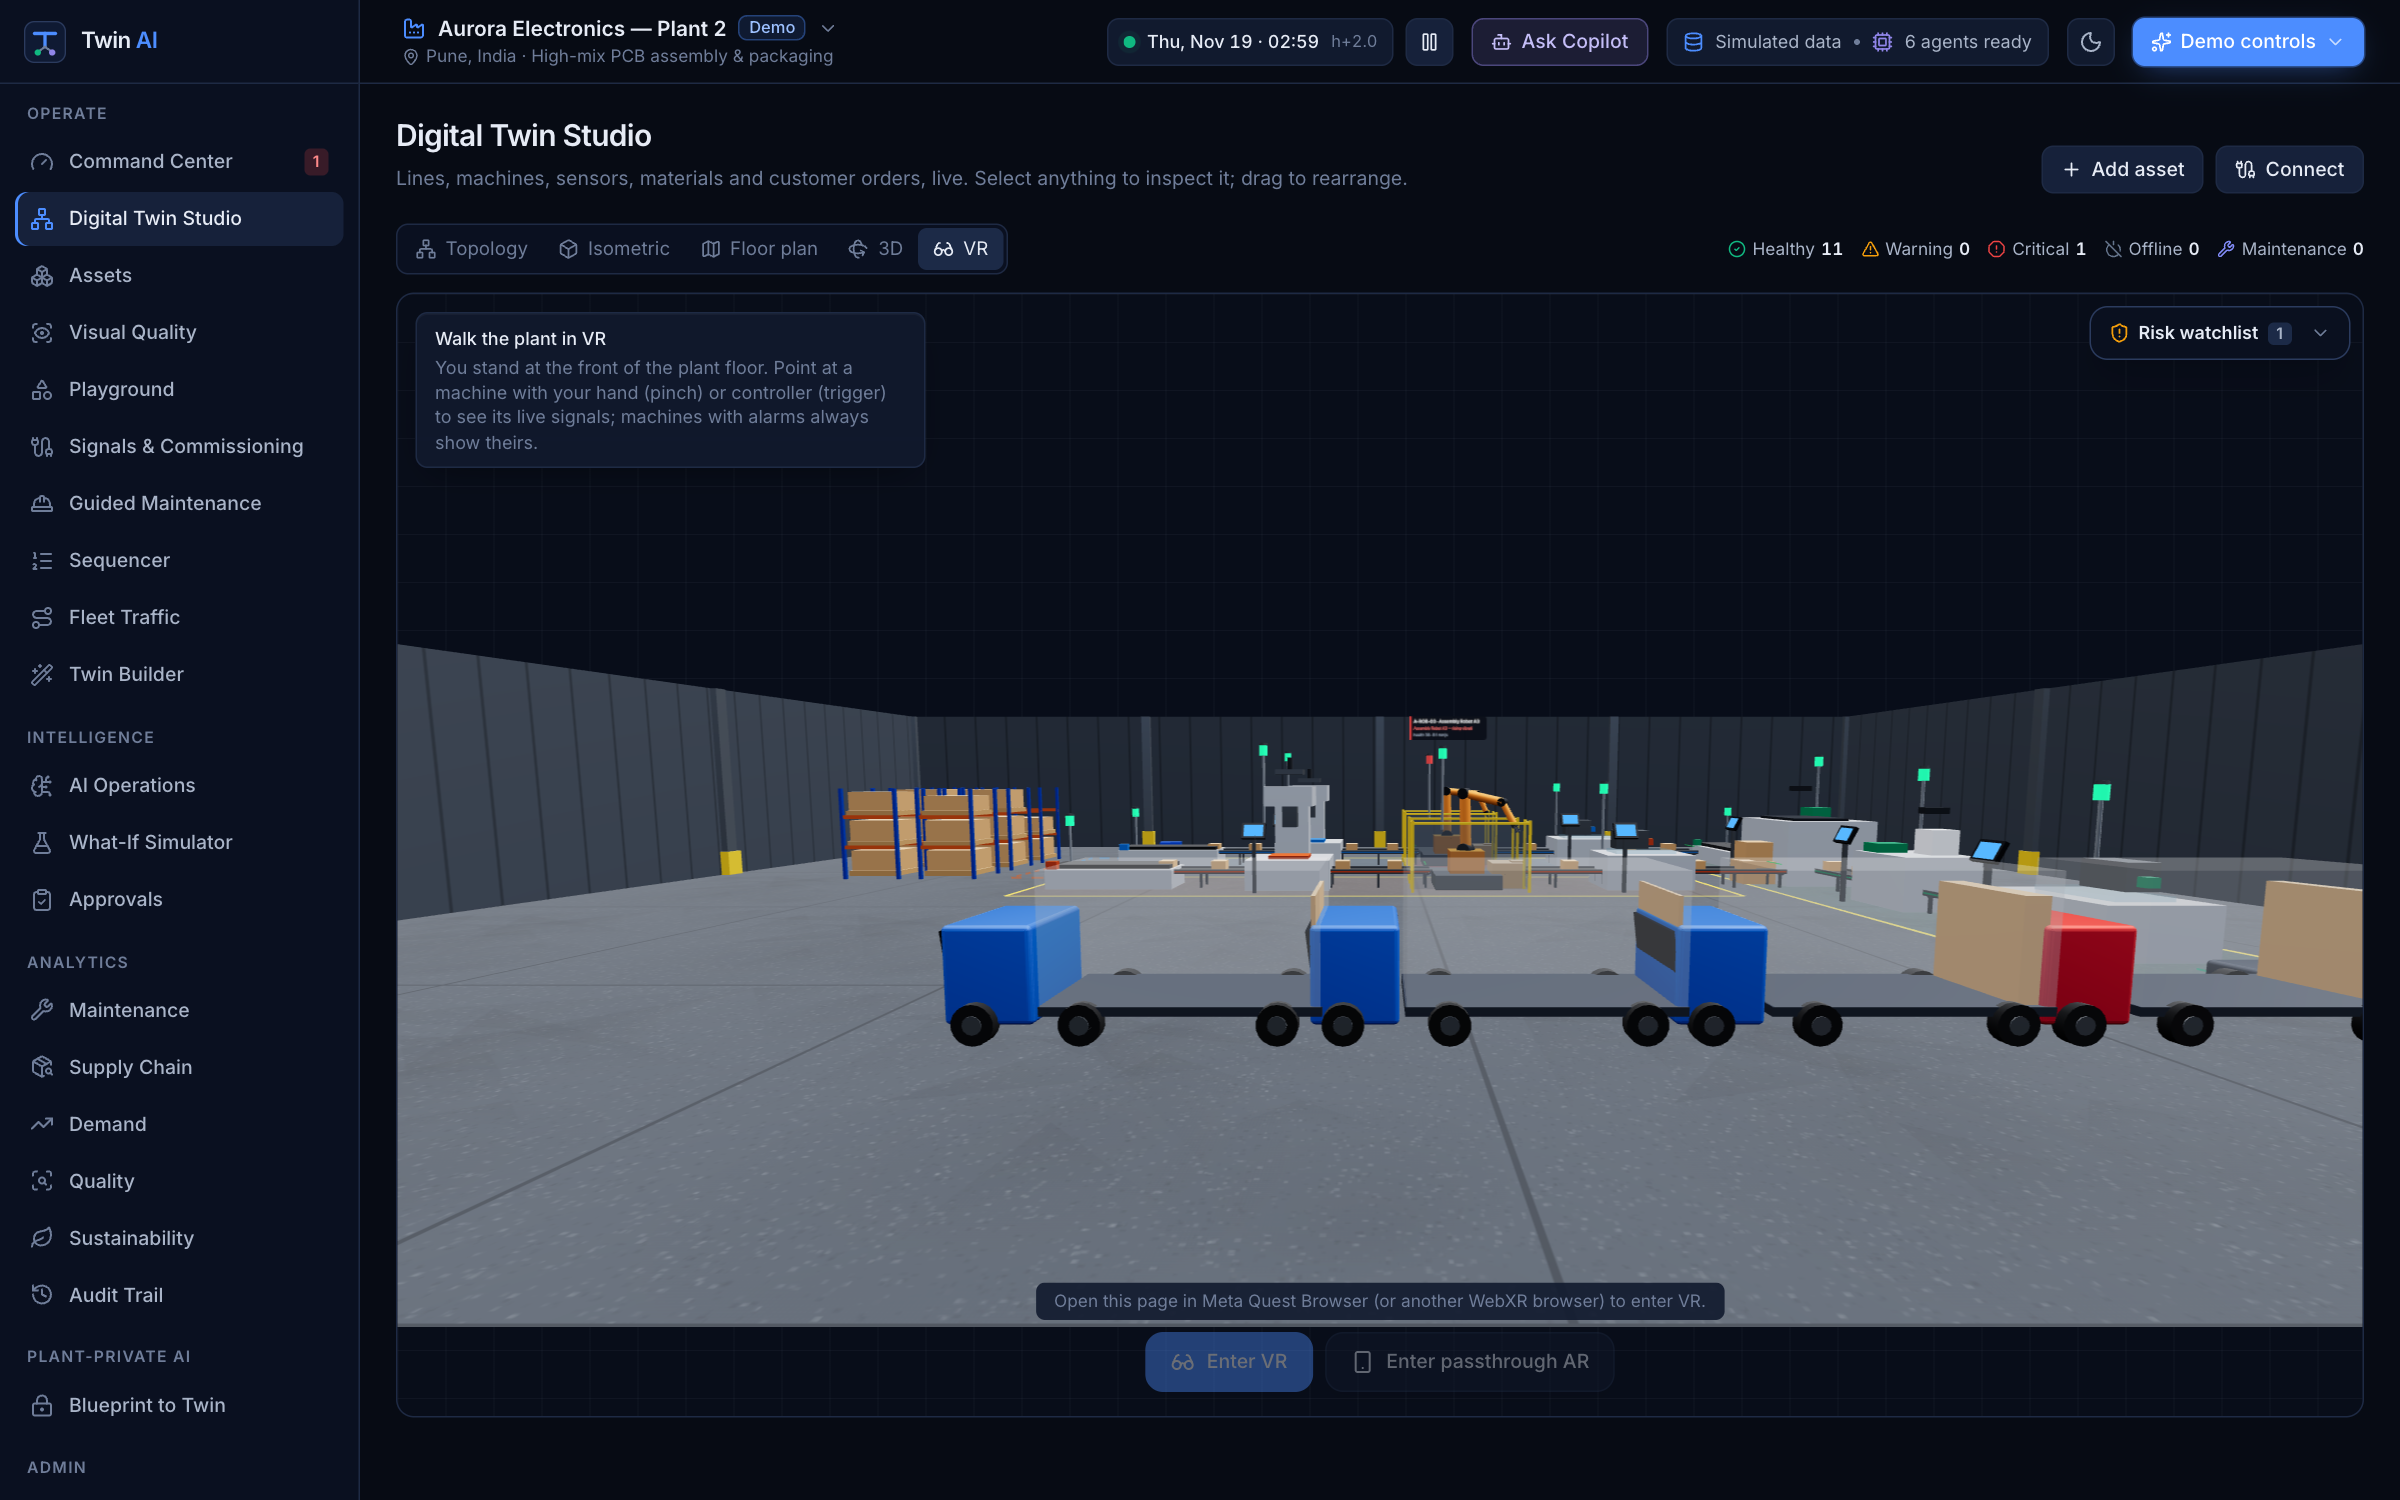
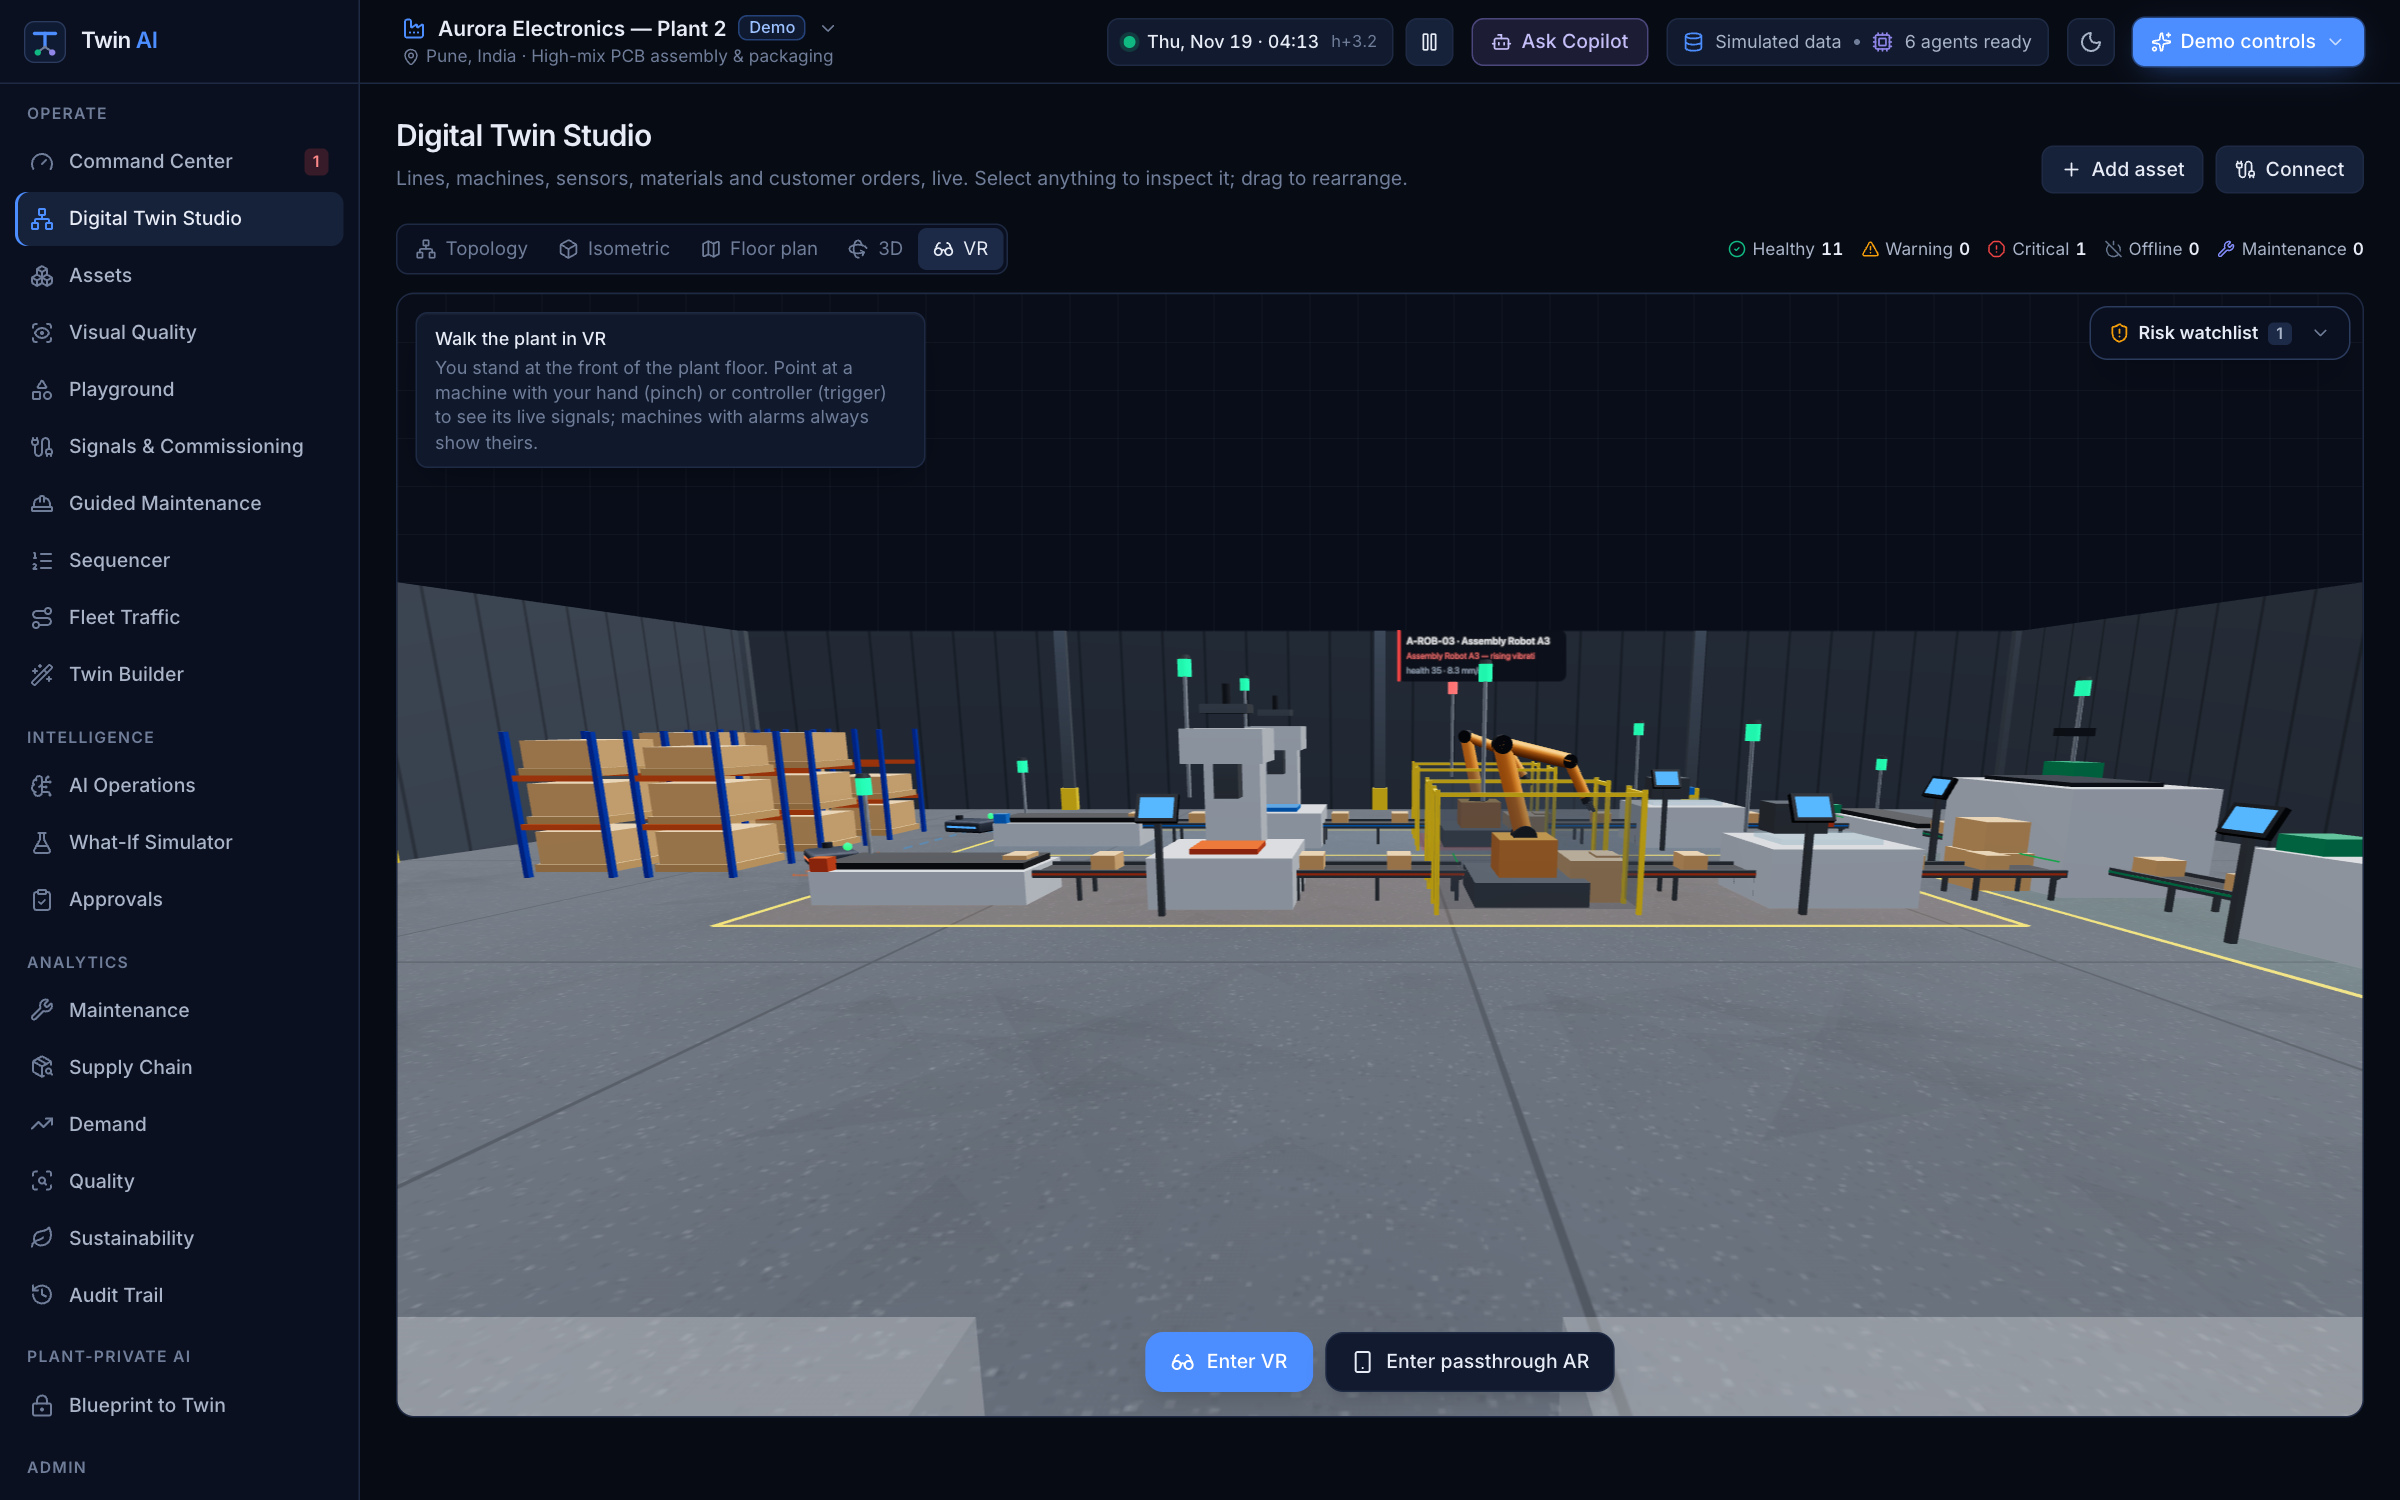
VR: add a VR tab to Digital Twin Studio with in-headset alarm and signal boards, ray/pinch machine selection, and Quest 3 emulation on localhost; add submission screenshots

Changed region(s): [[0.1562, 0.368, 1.0, 0.7053], [0.1562, 0.736, 1.0, 0.9507]]

diff --git a/src/components/three/twin-vr.tsx b/src/components/three/twin-vr.tsx
@@ -18,6 +18,11 @@ import { Scene } from "./twin-3d";
 
 const EYE = 1.6; // standing eye height, layout units ≈ m in the 3D scene
 
+// The development headset emulator bundles an older three.js renderer that calls Material.onBuild,
+// which current three.js no longer defines. A no-op keeps emulation working; real headsets never call it.
+const proto = THREE.Material.prototype as unknown as { onBuild?: () => void };
+if (typeof proto.onBuild !== "function") proto.onBuild = () => undefined;
+
 /** A text board in the scene (drawn to a canvas texture), so it is visible inside the headset. */
 function Board({ lines, accent, position, width = 1.5 }: { lines: { text: string; tone?: "title" | "warn" | "bad" | "ok" | "muted" }[]; accent: string; position: [number, number, number]; width?: number }) {
   const tex = useMemo(() => {
@@ -75,7 +80,17 @@ function StandingView({ eye, target }: { eye: THREE.Vector3; target: THREE.Vecto
  */
 export function TwinVR({ state }: { state: FactoryState }) {
   const pal = usePalette();
-  const store = useMemo(() => createXRStore({ emulate: "metaQuest3", offerSession: false }), []);
+  // On localhost without WebXR, emulate a Meta Quest 3 (stereo, no synthetic room) for development.
+  const store = useMemo(() => createXRStore({
+        emulate: {
+          type: "metaQuest3",
+          syntheticEnvironment: false,
+          stereoEnabled: true,
+          headset: { position: [0, 1.7, 0], rotation: [0.28, 0, 0] },
+          controller: { left: { position: [-0.32, -0.42, -0.45] }, right: { position: [0.32, -0.42, -0.45] } },
+        },
+        offerSession: false,
+      }), []);
   const [support, setSupport] = useState<{ vr: boolean; ar: boolean } | null>(null);
   const [selected, setSelected] = useState<string | null>(null);
   const plantRef = useRef<THREE.Group | null>(null);
@@ -107,7 +122,8 @@ export function TwinVR({ state }: { state: FactoryState }) {
   const b = layout.bounds;
   const center = useMemo(() => new THREE.Vector3(...P((b.x0 + b.x1) / 2, (b.y0 + b.y1) / 2)), [b.x0, b.x1, b.y0, b.y1]);
   const span = Math.max(b.x1 - b.x0, b.y1 - b.y0);
-  const front = useMemo(() => new THREE.Vector3(center.x, 0, center.z + span * 0.55), [center, span]);
+  // Stand on the floor in front of the lines, inside the dock apron.
+  const front = useMemo(() => new THREE.Vector3(center.x, 0, center.z + span * 0.3), [center, span]);
   const eye = useMemo(() => front.clone().add(new THREE.Vector3(0, EYE, 0)), [front]);
   const lookAt = useMemo(() => center.clone().add(new THREE.Vector3(0, 0.6, 0)), [center]);
 
@@ -130,7 +146,7 @@ export function TwinVR({ state }: { state: FactoryState }) {
             }))
           : [{ text: `health ${a.healthScore.toFixed(0)} · ${a.signal.vibration.toFixed(1)} mm/s`, tone: "muted" as const }]),
       ];
-      return [{ id, lines, accent: alarm ? (alarm.severity === "critical" ? "#ef4444" : "#f59e0b") : "#4c8dff", position: P(pm.x, pm.y, machineParts(pm.m.kind).height + 1.1) }];
+      return [{ id, lines, accent: alarm ? (alarm.severity === "critical" ? "#ef4444" : "#f59e0b") : "#4c8dff", position: P(pm.x, pm.y, machineParts(pm.m.kind).height + 0.9) }];
     });
   }, [state, layout, selected]);
 
@@ -157,7 +173,7 @@ export function TwinVR({ state }: { state: FactoryState }) {
             facility={{ id: state.profile.id, name: state.profile.name }}
           />
           {boards.map((bd) => (
-            <Board key={bd.id} lines={bd.lines} accent={bd.accent} position={bd.position} />
+            <Board key={bd.id} lines={bd.lines} accent={bd.accent} position={bd.position} width={2.2} />
           ))}
         </XR>
       </Canvas>
